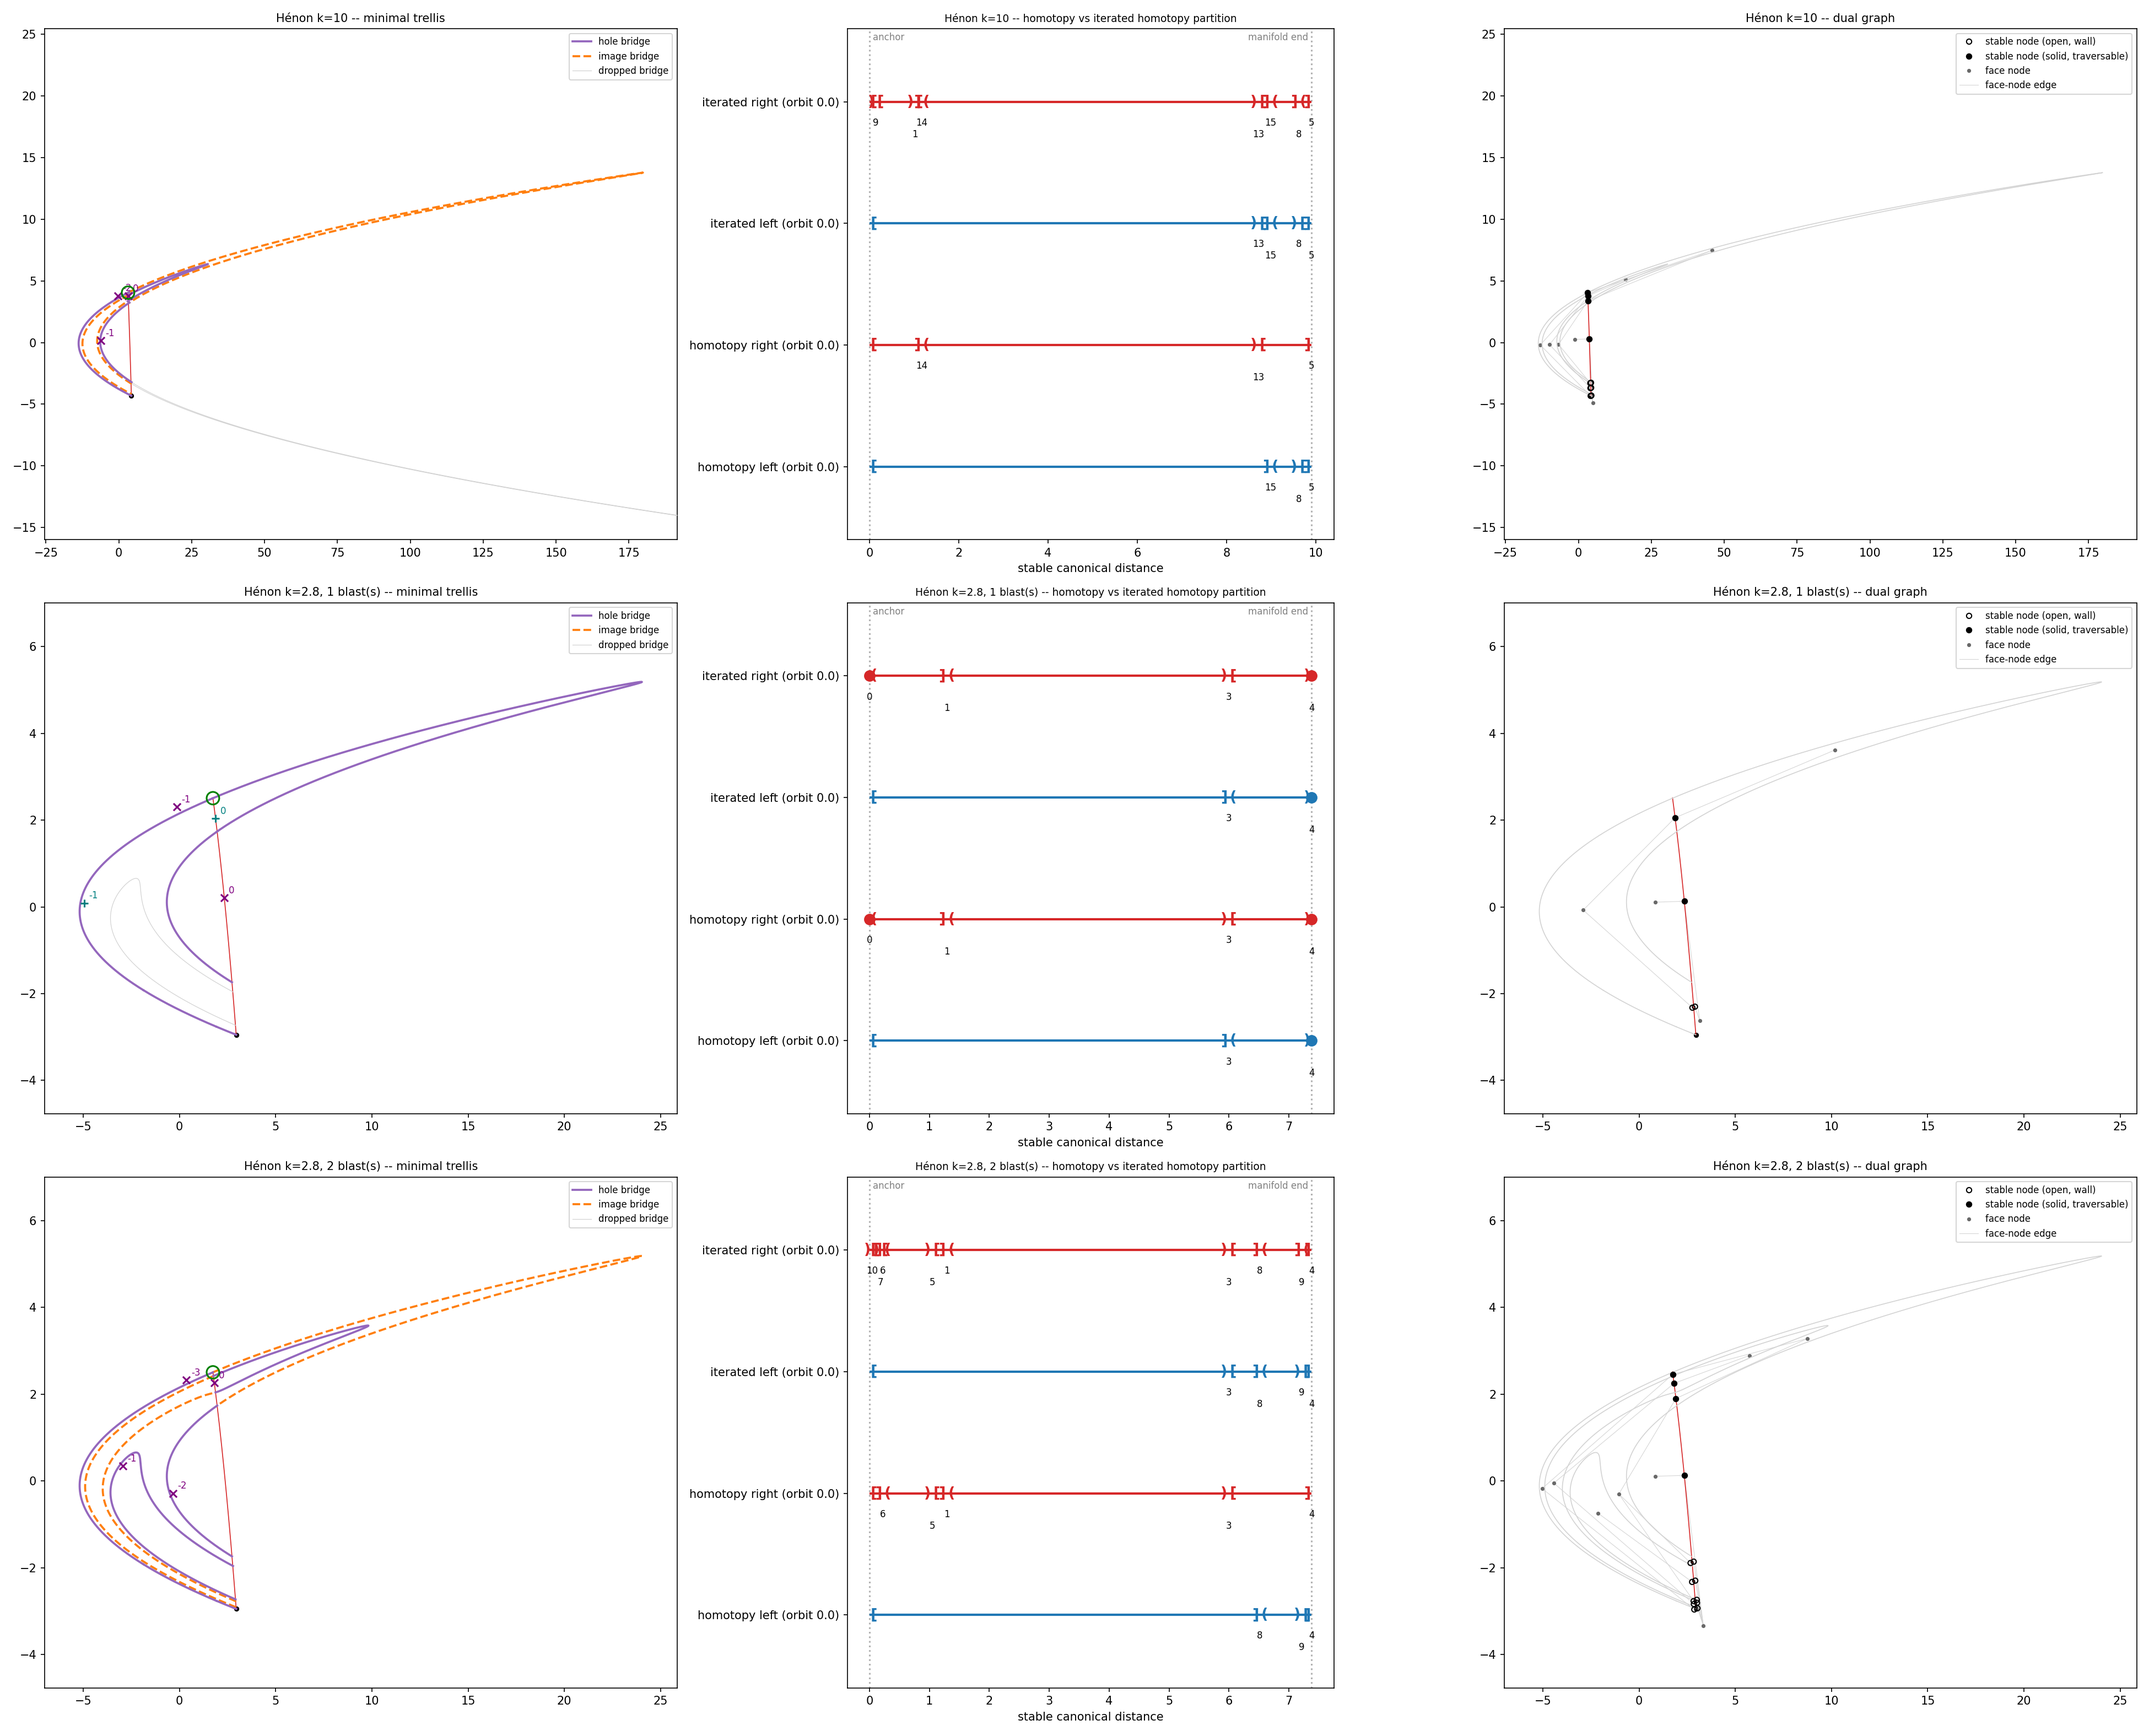
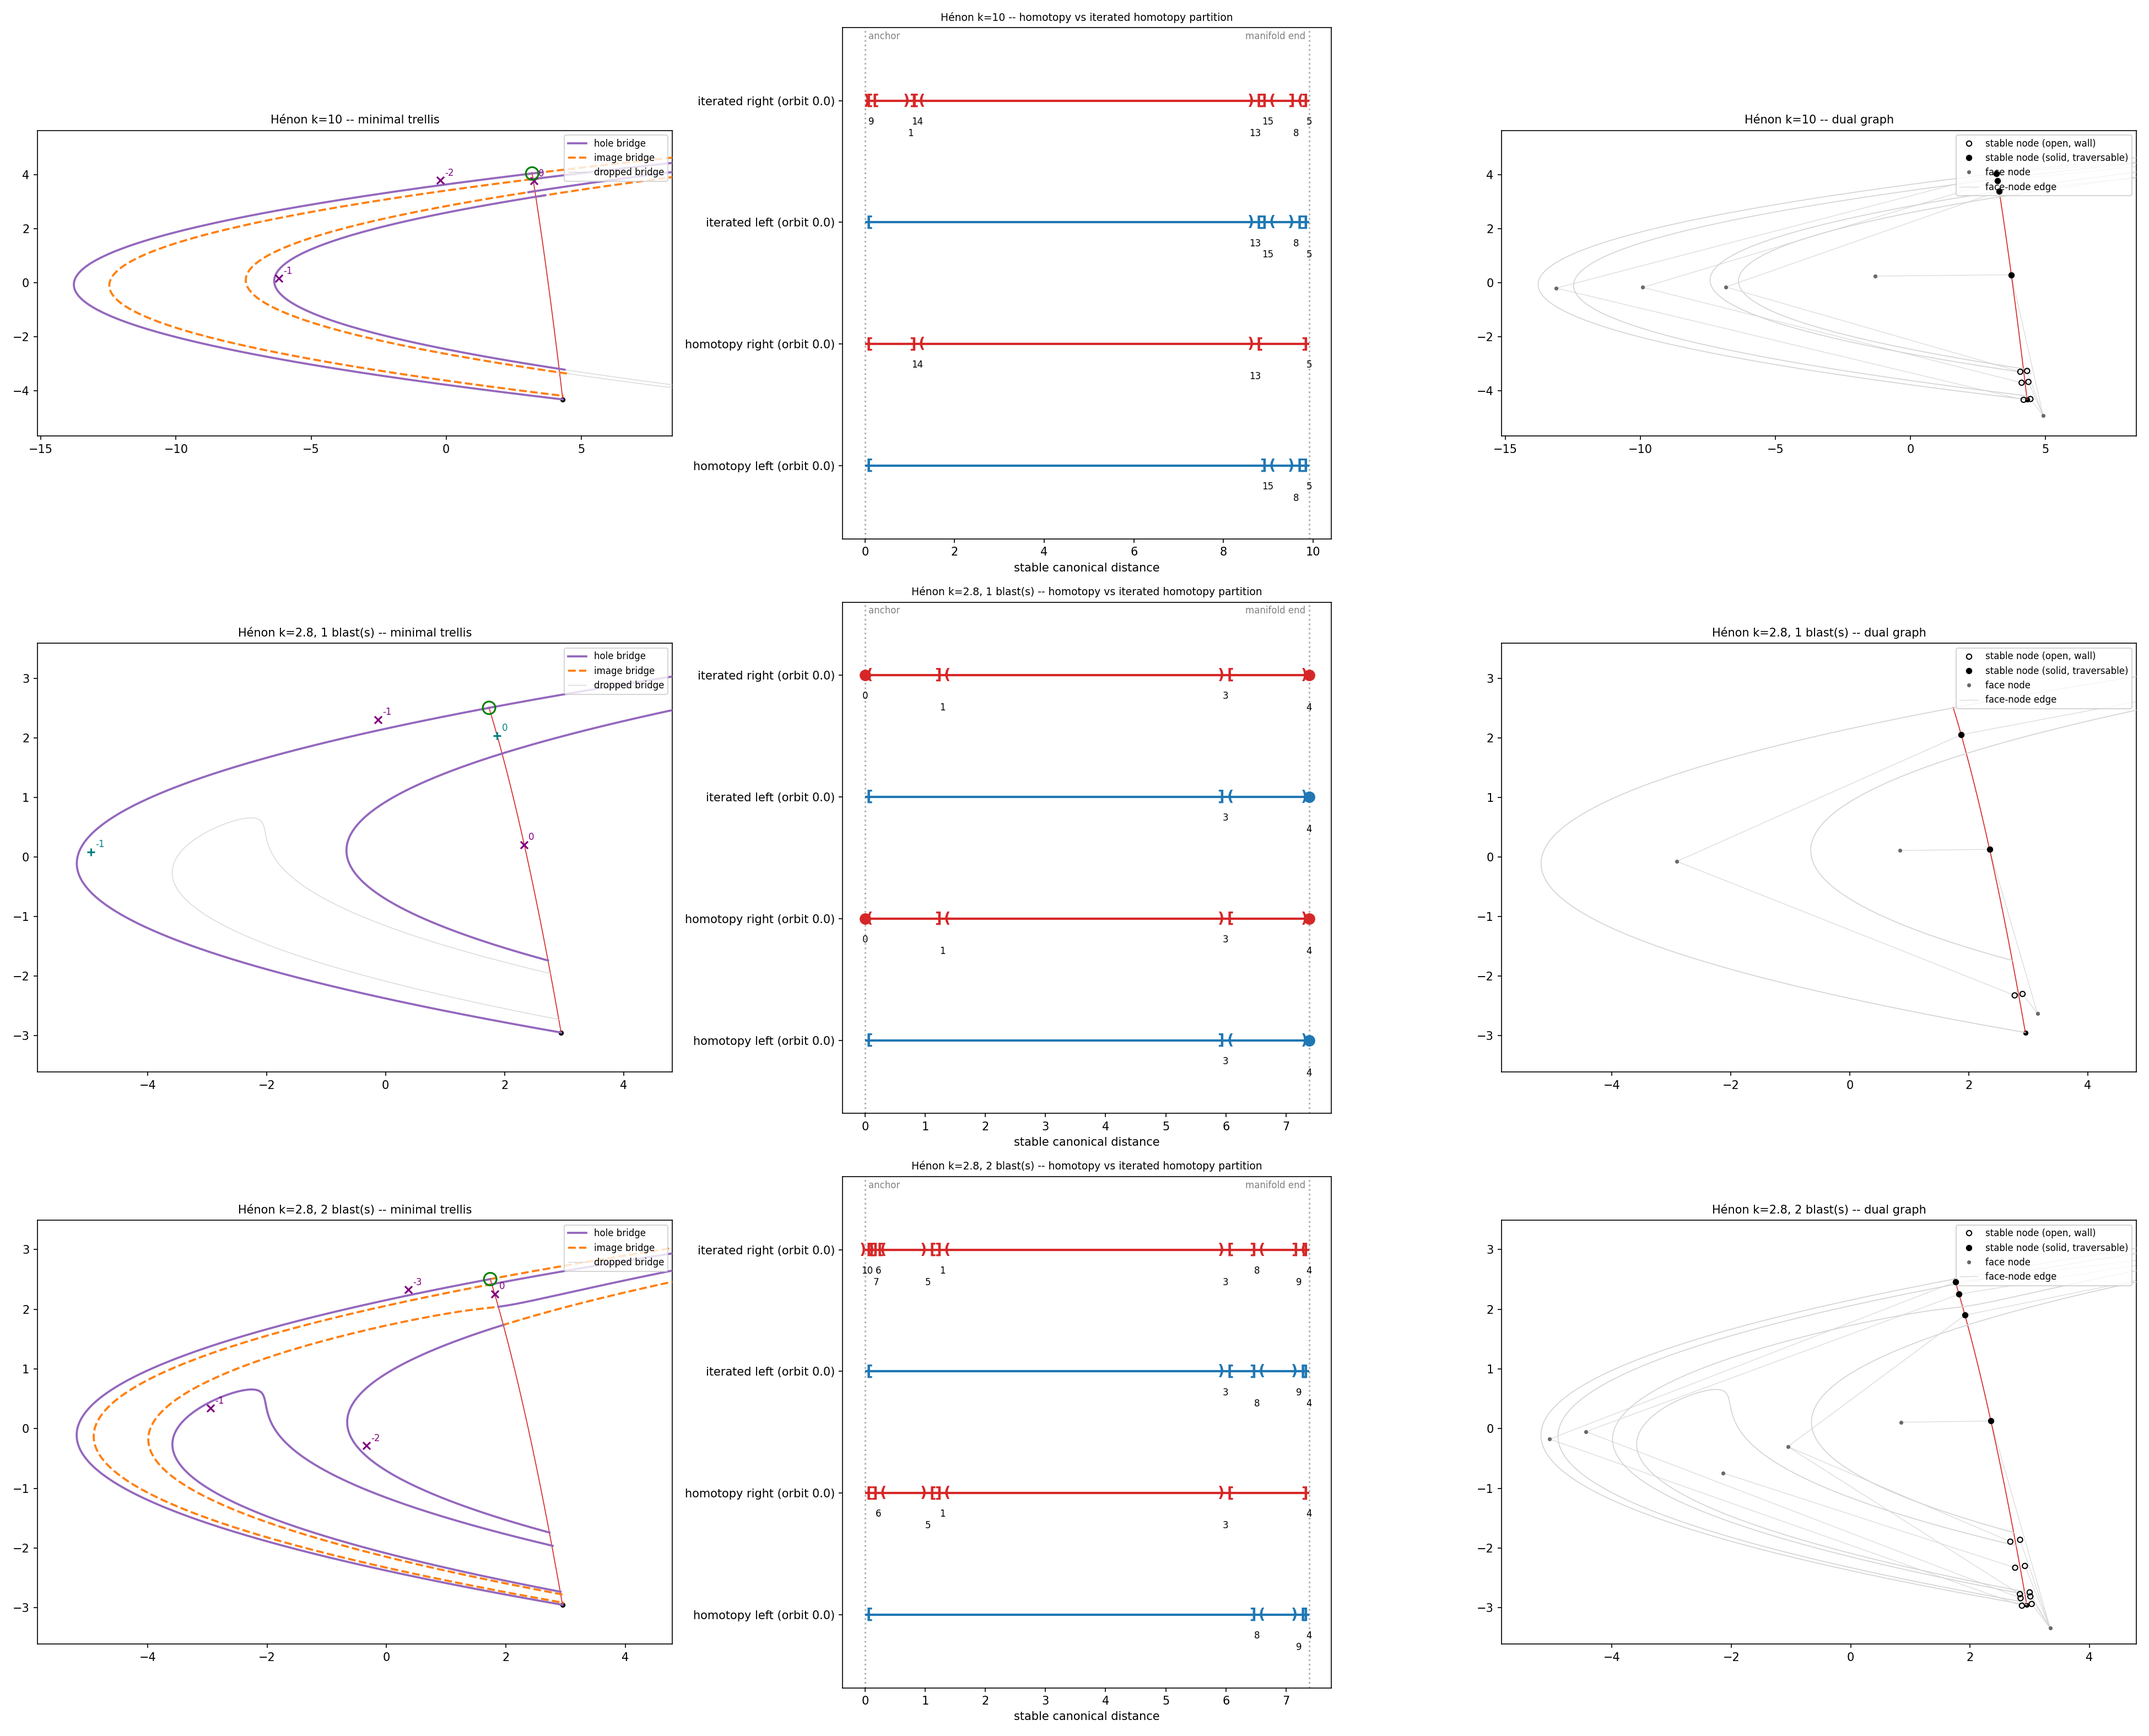
henon_minimal_dual_graph: frame the plane panels on the folds near the fixed point
The view is the trimmed stable manifold plus the hole-bridge points within
its y-band, cut just past the fixed point on the right, so the lobes' folds
are in and the long outgoing arms are out (the blast figures' framing),
with equal aspect.

diff --git a/scripts/henon_minimal_dual_graph.py b/scripts/henon_minimal_dual_graph.py
@@ -49,15 +49,59 @@ FIGURES_DIR = Path(__file__).resolve().parent.parent / "figures"
 OUT_PATH = FIGURES_DIR / "henon_minimal_dual_graph.png"
 
 
-def _apply_plane_view(ax, view: tuple) -> None:
-    """The shared view of a row's plane panels, WITHOUT the equal aspect.
+#: How far past the trimmed stable manifold's y-extent a hole bridge's points
+#: still count as "the region of interest" (a fraction of that extent). The
+#: lobes' folds stay within the manifold's y-band; the outgoing arms leave it
+#: on their way to x ~ 25 (k=2.8) or x ~ 180 (k=10) and are cut there.
+BAND_MARGIN = 0.3
+#: How far to the right of the stable manifold the view extends, as a fraction
+#: of the folds' width (the folds lie to the LEFT of the manifold; the arms
+#: leave to the right and are cut just past the fixed point).
+RIGHT_MARGIN = 0.15
 
-    A k=10 bridge runs to x ~ 180 while the tangle sits within |y| < 20, so an
-    equal-aspect panel is a thin strip in which nothing near the fixed point is
-    legible; the dual graph is a topological picture and survives the stretch.
+
+def _trimmed_stable_points(session: TangleSession, fp) -> np.ndarray:
+    """The points of the stable manifold AS TRIMMED at the chosen pip."""
+    return np.vstack(
+        [
+            manifold.get_point_array()
+            for (fixed_point, stability, _o, _b), manifold in session.manifolds.items()
+            if fixed_point is fp and stability == "stable"
+        ]
+    )
+
+
+def _region_of_interest(session: TangleSession, fp, minimal) -> tuple:
     """
+    The view of a row's plane panels: the folds near the fixed point.
+
+    Frames the trimmed stable manifold plus every hole-bridge point whose y
+    lies within :data:`BAND_MARGIN` of that manifold's y-extent, then cuts the
+    right edge :data:`RIGHT_MARGIN` of the folds' width past the manifold, so
+    the lobes' folds (at negative x) are in and the long outgoing arms are out
+    — the framing of the blast figures. Equal aspect, as there.
+    """
+    stable_points = _trimmed_stable_points(session, fp)
+    y_lo, y_hi = float(stable_points[:, 1].min()), float(stable_points[:, 1].max())
+    margin = BAND_MARGIN * max(y_hi - y_lo, 1.0)
+    sets = [stable_points]
+    for bridge_id in minimal.hole_bridge_ids:
+        bridge = minimal.trellis.bridge_between(*bridge_id)
+        if bridge is None:
+            continue
+        points = bridge.get_point_array()
+        inside = points[(points[:, 1] >= y_lo - margin) & (points[:, 1] <= y_hi + margin)]
+        if len(inside):
+            sets.append(inside)
+    stacked = np.vstack(sets)
+    x_hi = float(stable_points[:, 0].max())
+    x_cap = x_hi + RIGHT_MARGIN * max(x_hi - float(stacked[:, 0].min()), 1.0)
+    return _view([stacked[stacked[:, 0] <= x_cap]])
+
+
+def _apply_plane_view(ax, view: tuple) -> None:
+    """The shared view of a row's plane panels (equal aspect)."""
     _apply_view(ax, view)
-    ax.set_aspect("auto")
 
 
 def _draw_stable(ax, session: TangleSession, fp) -> None:
@@ -126,12 +170,9 @@ def main() -> None:
     )
     axes = np.atleast_2d(axes)
     for row, case in enumerate(CASES):
-        session, fp, stable_points = build(case)
+        session, fp, _pre_trim_stable_points = build(case)
         minimal = session.minimal_trellis()
-        view = _view(
-            [stable_points]
-            + [bridge.get_point_array() for bridge in minimal.kept]
-        )
+        view = _region_of_interest(session, fp, minimal)
         report(session, case.title)
         draw_minimal_trellis(axes[row, 0], session, fp, view, case.title)
         draw_partitions(axes[row, 1], session, case.title)
